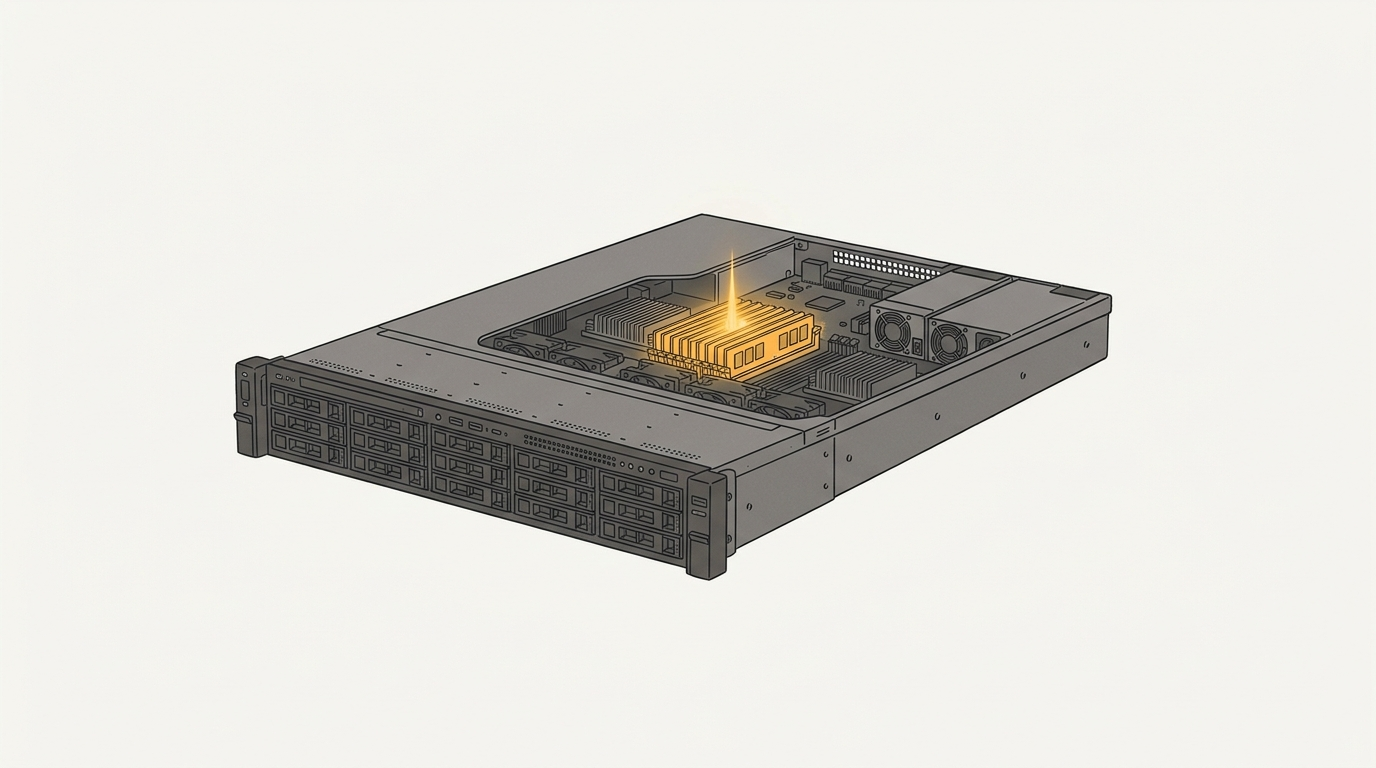
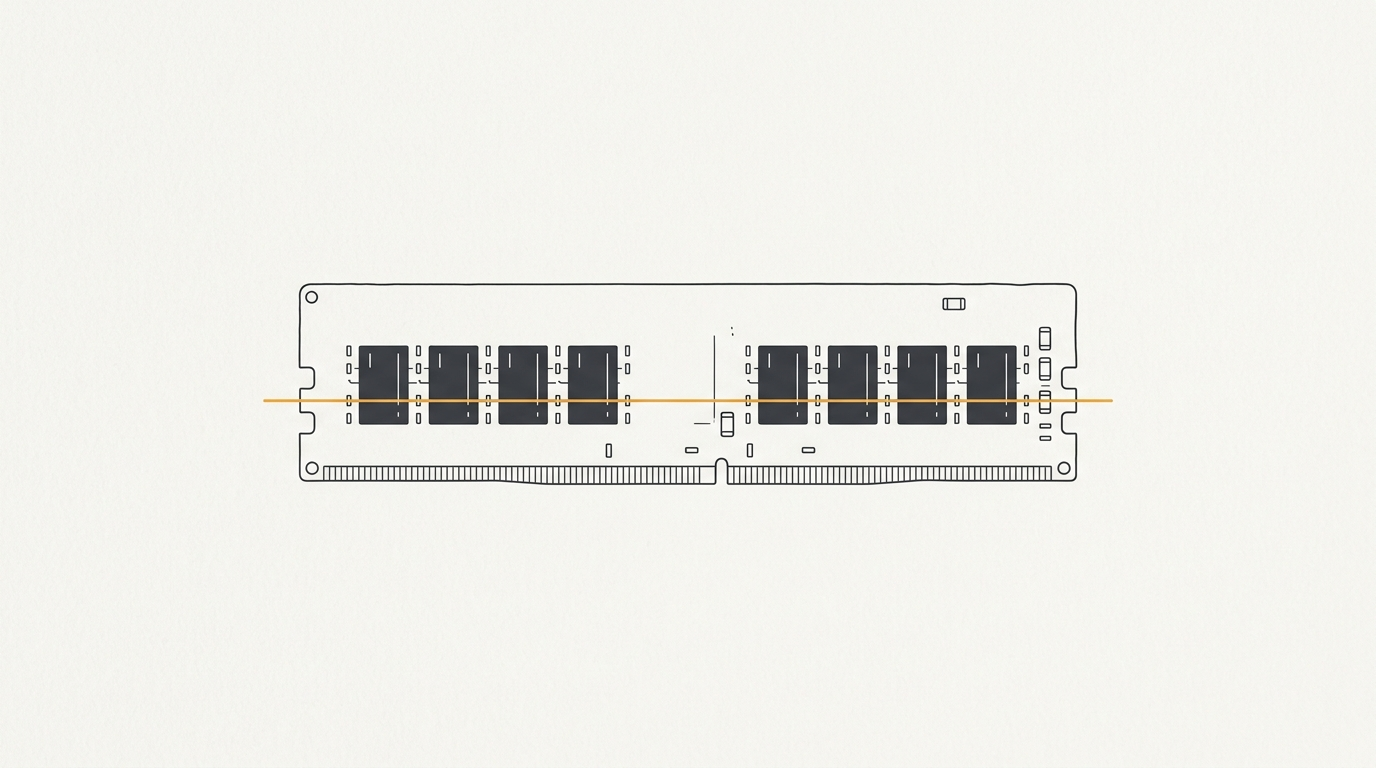
content: promote Linux page cache and InnoDB OOM guide with sub-47 H2s and hero image

Changed region(s): [[0.1562, 0.2812, 0.8125, 0.75]]

diff --git a/research/marketing/tuning-linux-page-cache-innodb-buffer-pool-oom-fix-social.md b/research/marketing/tuning-linux-page-cache-innodb-buffer-pool-oom-fix-social.md
@@ -1,0 +1,92 @@
+# Social Syndication Copy: Tuning Linux Page Cache & InnoDB: Stop Database OOM Kills
+
+## 🔗 Target Canonical URL
+`https://www.praveentechworld.com/blog/tuning-linux-page-cache-innodb-buffer-pool-oom-fix`
+
+---
+
+## 💼 LinkedIn Post (Database Architecture / DevOps / Linux Kernel Focus)
+
+Why do 128GB and 256GB production database servers silently freeze or crash under heavy traffic?
+
+The standard rule of thumb says: allocate 75% of host RAM to MySQL's `innodb_buffer_pool_size` (or PostgreSQL's `shared_buffers`).
+
+Yet on our infrastructure workbench, we frequently diagnosed servers where the Linux Out-Of-Memory killer (`oom-killer`) terminated `mysqld` or `postgres` without warning—even when query loads were completely normal.
+
+The culprit isn't the database engine. It’s an unmanaged memory war between the Linux kernel's file page cache and the database's user-space buffer pool.
+
+Because Linux treats "free memory" as wasted memory, it eagerly fills all unused RAM with dirty file cache pages from table scans and binlog rotations. When a sudden connection burst demands transient query buffers, the kernel can't reclaim page cache fast enough.
+
+The kernel calculates process "badness" scores, sees `mysqld` consuming 90GB of anonymous RSS memory, and fires `SIGKILL`.
+
+Here are the 5 critical sysctl settings our team applies to eliminate database OOM kills:
+
+1. **Set `vm.swappiness = 1`:**
+Linux defaults to 60, which swaps out active transactional memory to keep file caches warm. Dropping swappiness to 1 prevents latency jitter while preserving emergency swap headroom.
+
+2. **Switch from Ratios to Bytes (`vm.dirty_background_bytes = 268435456`):**
+Default percentage ratios (`dirty_ratio = 20`) permit up to 25.6 GB of dirty pages on a 128GB host. When flusher threads finally wake, the I/O bus chokes. Capping dirty bytes to 256MB/1GB forces smooth, continuous writeback.
+
+3. **Prioritize Inode Eviction (`vm.vfs_cache_pressure = 150`):**
+Forces the kernel to aggressively reclaim cached directory entries and inodes rather than transactional query pages.
+
+4. **Bypass OS Dual-Caching (`O_DIRECT`):**
+Configure `innodb_flush_method = O_DIRECT` in MySQL or `wal_sync_method = fdatasync` in PostgreSQL so table blocks aren't stored twice in RAM.
+
+5. **Protect the Daemon from OOM Execution:**
+Add `OOMScoreAdjust = -900` to your systemd database unit override to guarantee the kernel terminates background cron jobs before touching your primary database process.
+
+Read our complete kernel virtual memory architecture map, slab diagnostic runbook, and production tuning matrix:
+👉 https://www.praveentechworld.com/blog/tuning-linux-page-cache-innodb-buffer-pool-oom-fix
+
+#DevOps #Linux #Database #MySQL #PostgreSQL #SysAdmin #DatabaseAdministration #LinuxKernel #Infrastructure #SRE
+
+---
+
+## 🐦 X / Twitter Thread (Actionable Kernel Memory Runbook)
+
+1/8 Why do 128GB database servers silently crash with OOM kills?
+
+You gave 75% of RAM to `innodb_buffer_pool_size`, yet the Linux kernel terminates `mysqld` with SIGKILL.
+
+Here is the root cause and the 5 sysctl tweaks that fix it 🧵👇
+
+2/8 The Root Cause: Kernel Page Cache Greed
+Linux treats free memory as wasted memory.
+Table scans and binlog writes fill every spare GB with filesystem page cache.
+When sudden query bursts need connection buffers, the kernel can't reclaim cache in time and panic-kills the biggest RSS process: your DB!
+
+3/8 Fix 1: Stop Swapping Transactional Memory
+Default `vm.swappiness = 60` swaps active InnoDB buffers to disk just to preserve filesystem cache!
+Run:
+`sysctl -w vm.swappiness=1`
+(Never use 0—keep emergency swap available to prevent instant crashes).
+
+4/8 Fix 2: Switch From Percentages to Explicit Bytes
+Default `dirty_ratio=20` lets 25GB of unwritten disk pages pile up in RAM on a 128GB server.
+When flusher threads kick in, disk I/O freezes.
+Run:
+`sysctl -w vm.dirty_background_bytes=268435456` (256MB)
+`sysctl -w vm.dirty_bytes=1073741824` (1GB)
+
+5/8 Fix 3: Reclaim Inode and Dentry Metadata
+Set:
+`sysctl -w vm.vfs_cache_pressure=150`
+This tells the kernel to reclaim cached directory entries and inodes instead of paging out database process memory.
+
+6/8 Fix 4: Eliminate Dual Caching with Direct I/O
+Why cache data in the OS page cache AND the database buffer pool?
+In `/etc/mysql/my.cnf`:
+`innodb_flush_method = O_DIRECT`
+`innodb_flush_neighbors = 0`
+Bypasses OS page cache entirely for database writes.
+
+7/8 Fix 5: Shield DB Service from OOM Killer
+In `/etc/systemd/system/mysql.service.d/override.conf`:
+[Service]
+OOMScoreAdjust=-900
+LimitMEMLOCK=infinity
+Reload with `systemctl daemon-reload`. Your DB won't be picked as the first victim!
+
+8/8 Full diagnostic commands (`/proc/meminfo`, `slabtop`), sysctl matrix, and runbook:
+🔗 https://www.praveentechworld.com/blog/tuning-linux-page-cache-innodb-buffer-pool-oom-fix

diff --git a/research/vault/Social-Hooks/tuning-linux-page-cache-innodb-buffer-pool-oom-fix-social.md b/research/vault/Social-Hooks/tuning-linux-page-cache-innodb-buffer-pool-oom-fix-social.md
@@ -1,0 +1,92 @@
+# Social Syndication Copy: Tuning Linux Page Cache & InnoDB: Stop Database OOM Kills
+
+## 🔗 Target Canonical URL
+`https://www.praveentechworld.com/blog/tuning-linux-page-cache-innodb-buffer-pool-oom-fix`
+
+---
+
+## 💼 LinkedIn Post (Database Architecture / DevOps / Linux Kernel Focus)
+
+Why do 128GB and 256GB production database servers silently freeze or crash under heavy traffic?
+
+The standard rule of thumb says: allocate 75% of host RAM to MySQL's `innodb_buffer_pool_size` (or PostgreSQL's `shared_buffers`).
+
+Yet on our infrastructure workbench, we frequently diagnosed servers where the Linux Out-Of-Memory killer (`oom-killer`) terminated `mysqld` or `postgres` without warning—even when query loads were completely normal.
+
+The culprit isn't the database engine. It’s an unmanaged memory war between the Linux kernel's file page cache and the database's user-space buffer pool.
+
+Because Linux treats "free memory" as wasted memory, it eagerly fills all unused RAM with dirty file cache pages from table scans and binlog rotations. When a sudden connection burst demands transient query buffers, the kernel can't reclaim page cache fast enough.
+
+The kernel calculates process "badness" scores, sees `mysqld` consuming 90GB of anonymous RSS memory, and fires `SIGKILL`.
+
+Here are the 5 critical sysctl settings our team applies to eliminate database OOM kills:
+
+1. **Set `vm.swappiness = 1`:**
+Linux defaults to 60, which swaps out active transactional memory to keep file caches warm. Dropping swappiness to 1 prevents latency jitter while preserving emergency swap headroom.
+
+2. **Switch from Ratios to Bytes (`vm.dirty_background_bytes = 268435456`):**
+Default percentage ratios (`dirty_ratio = 20`) permit up to 25.6 GB of dirty pages on a 128GB host. When flusher threads finally wake, the I/O bus chokes. Capping dirty bytes to 256MB/1GB forces smooth, continuous writeback.
+
+3. **Prioritize Inode Eviction (`vm.vfs_cache_pressure = 150`):**
+Forces the kernel to aggressively reclaim cached directory entries and inodes rather than transactional query pages.
+
+4. **Bypass OS Dual-Caching (`O_DIRECT`):**
+Configure `innodb_flush_method = O_DIRECT` in MySQL or `wal_sync_method = fdatasync` in PostgreSQL so table blocks aren't stored twice in RAM.
+
+5. **Protect the Daemon from OOM Execution:**
+Add `OOMScoreAdjust = -900` to your systemd database unit override to guarantee the kernel terminates background cron jobs before touching your primary database process.
+
+Read our complete kernel virtual memory architecture map, slab diagnostic runbook, and production tuning matrix:
+👉 https://www.praveentechworld.com/blog/tuning-linux-page-cache-innodb-buffer-pool-oom-fix
+
+#DevOps #Linux #Database #MySQL #PostgreSQL #SysAdmin #DatabaseAdministration #LinuxKernel #Infrastructure #SRE
+
+---
+
+## 🐦 X / Twitter Thread (Actionable Kernel Memory Runbook)
+
+1/8 Why do 128GB database servers silently crash with OOM kills?
+
+You gave 75% of RAM to `innodb_buffer_pool_size`, yet the Linux kernel terminates `mysqld` with SIGKILL.
+
+Here is the root cause and the 5 sysctl tweaks that fix it 🧵👇
+
+2/8 The Root Cause: Kernel Page Cache Greed
+Linux treats free memory as wasted memory.
+Table scans and binlog writes fill every spare GB with filesystem page cache.
+When sudden query bursts need connection buffers, the kernel can't reclaim cache in time and panic-kills the biggest RSS process: your DB!
+
+3/8 Fix 1: Stop Swapping Transactional Memory
+Default `vm.swappiness = 60` swaps active InnoDB buffers to disk just to preserve filesystem cache!
+Run:
+`sysctl -w vm.swappiness=1`
+(Never use 0—keep emergency swap available to prevent instant crashes).
+
+4/8 Fix 2: Switch From Percentages to Explicit Bytes
+Default `dirty_ratio=20` lets 25GB of unwritten disk pages pile up in RAM on a 128GB server.
+When flusher threads kick in, disk I/O freezes.
+Run:
+`sysctl -w vm.dirty_background_bytes=268435456` (256MB)
+`sysctl -w vm.dirty_bytes=1073741824` (1GB)
+
+5/8 Fix 3: Reclaim Inode and Dentry Metadata
+Set:
+`sysctl -w vm.vfs_cache_pressure=150`
+This tells the kernel to reclaim cached directory entries and inodes instead of paging out database process memory.
+
+6/8 Fix 4: Eliminate Dual Caching with Direct I/O
+Why cache data in the OS page cache AND the database buffer pool?
+In `/etc/mysql/my.cnf`:
+`innodb_flush_method = O_DIRECT`
+`innodb_flush_neighbors = 0`
+Bypasses OS page cache entirely for database writes.
+
+7/8 Fix 5: Shield DB Service from OOM Killer
+In `/etc/systemd/system/mysql.service.d/override.conf`:
+[Service]
+OOMScoreAdjust=-900
+LimitMEMLOCK=infinity
+Reload with `systemctl daemon-reload`. Your DB won't be picked as the first victim!
+
+8/8 Full diagnostic commands (`/proc/meminfo`, `slabtop`), sysctl matrix, and runbook:
+🔗 https://www.praveentechworld.com/blog/tuning-linux-page-cache-innodb-buffer-pool-oom-fix
